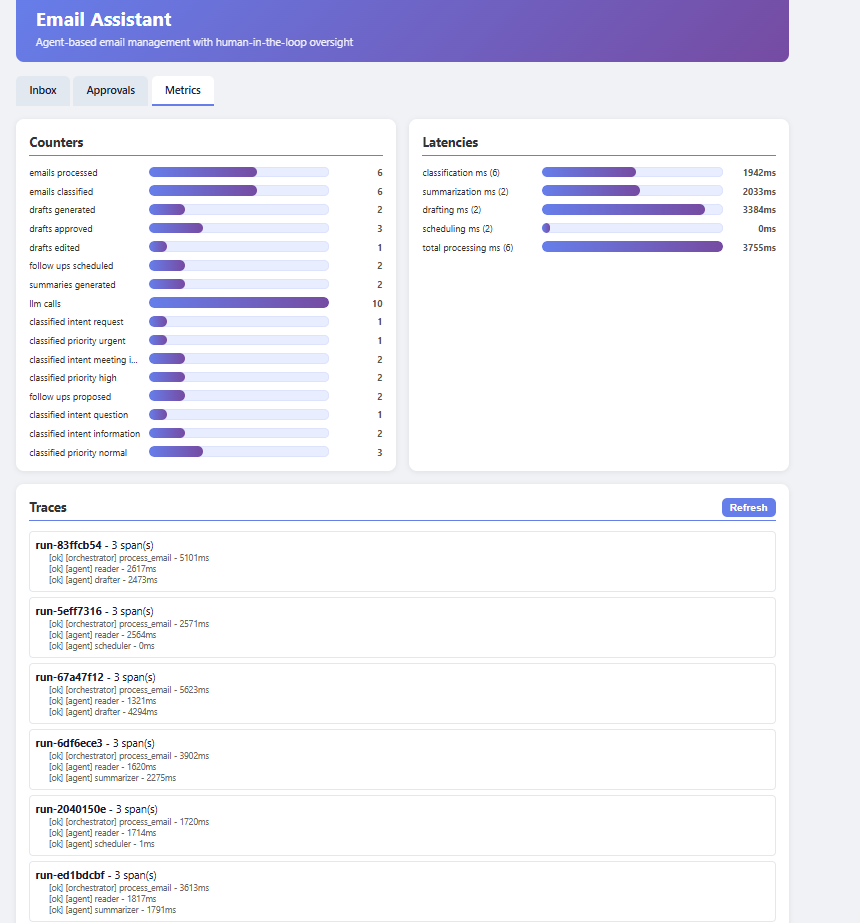
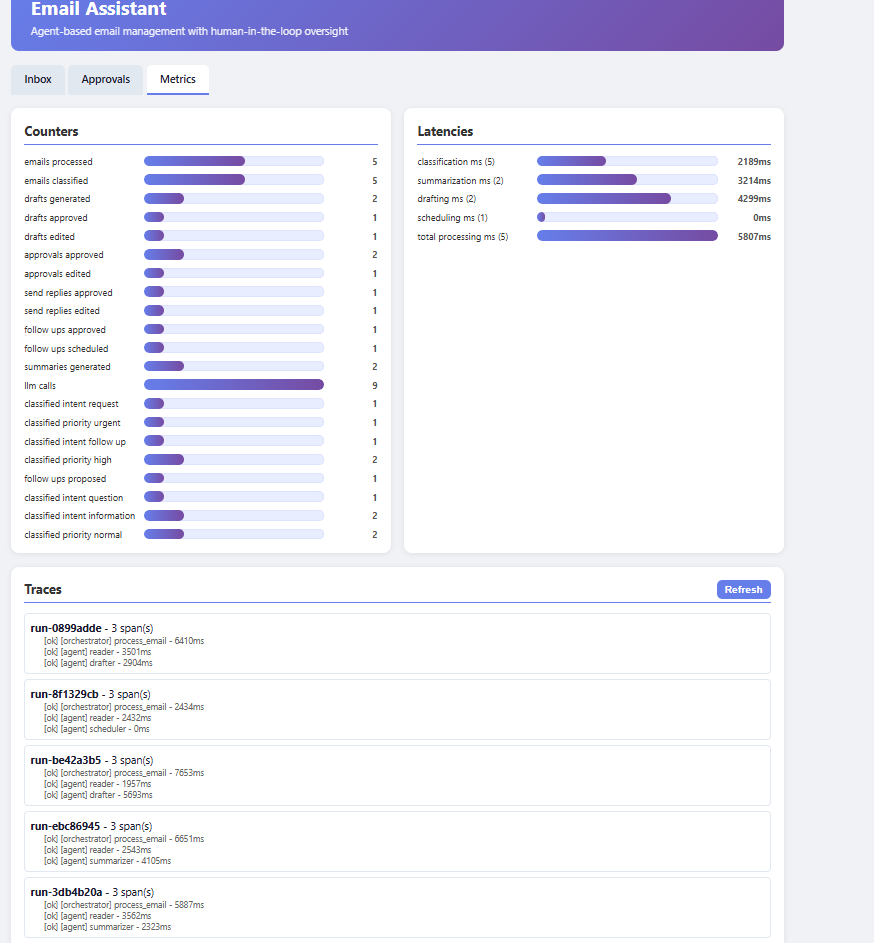
update metrics png file

diff --git a/README.md b/README.md
@@ -104,7 +104,7 @@ This ensures the assistant becomes more aligned with the user's communication st
 
 ![Metrics & Tracing Dashboard](docs/screenshots/metrics_dashboard.png)
 
-*Live metrics after processing 6 emails: counters, classification breakdowns, latency histograms, and per-agent traces.*
+*Live metrics after processing 5 actionable inbox emails, with 1 sent sample retained for thread context: counters, classification breakdowns, latency histograms, and per-agent traces.*
 
 ## 🚀 Quick Start
 